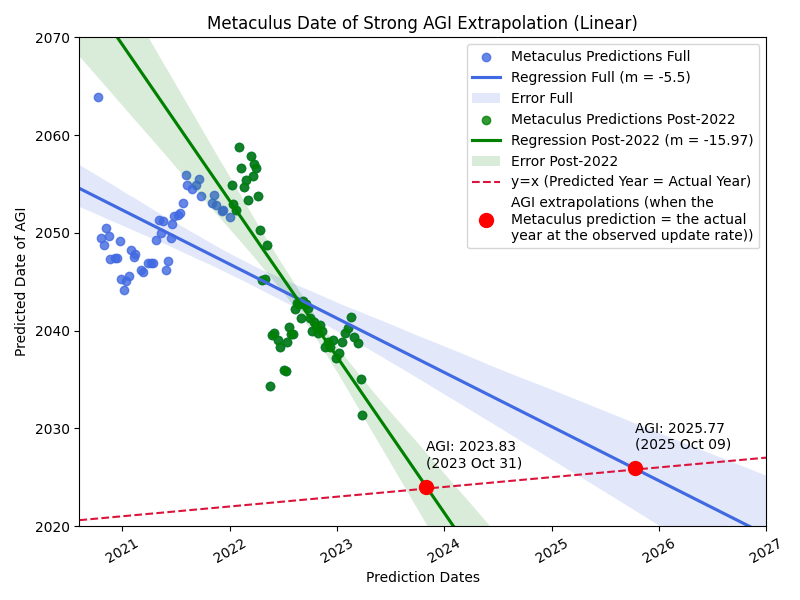
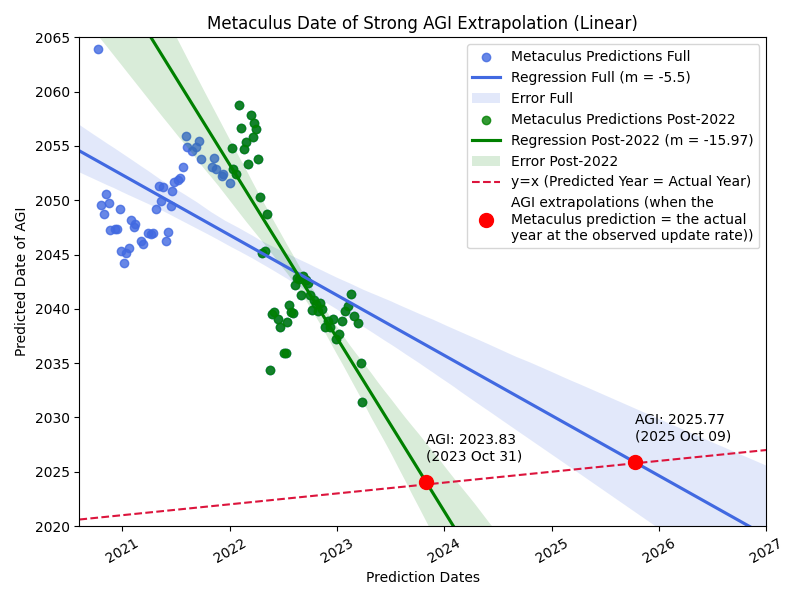
Small tweaks

diff --git a/Metaculus AGI Extrapolation/get_agi_predictions.js b/Metaculus AGI Extrapolation/get_agi_predictions.js
@@ -1,0 +1,5 @@
+// Console JS for getting the predictions from the AGI Metaculus question
+let output = []
+for (const [i, prediction] of Object.entries(window.metacData.question.community_prediction.history))
+    output.push({ 'date_of_prediction': prediction.time, 'agi_prediction': prediction.x1.q2 * (2200 - 2020) + 2020 })
+console.log(output)

diff --git a/Metaculus AGI Extrapolation/extrapolate.py b/Metaculus AGI Extrapolation/extrapolate.py
@@ -108,7 +108,7 @@ plt.legend([
     'AGI extrapolations (when the\nMetaculus prediction = the actual\nyear at the observed update rate))',
 ])
 
-plt.ylim(bottom=2020, top=2070)
+plt.ylim(bottom=2020, top=2065)
 g.tick_params('x', rotation=30)
 plt.xlabel('Prediction Dates')
 plt.ylabel('Predicted Date of AGI')
